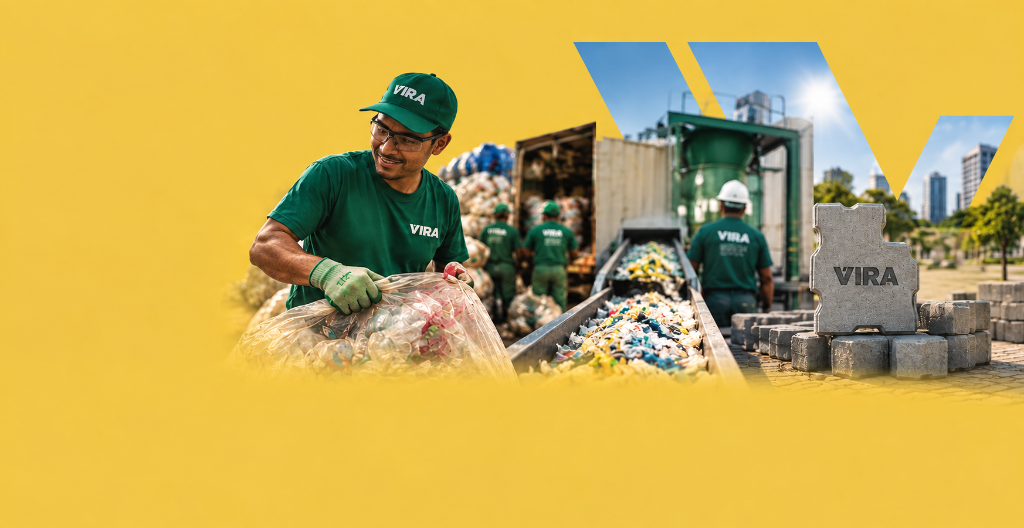
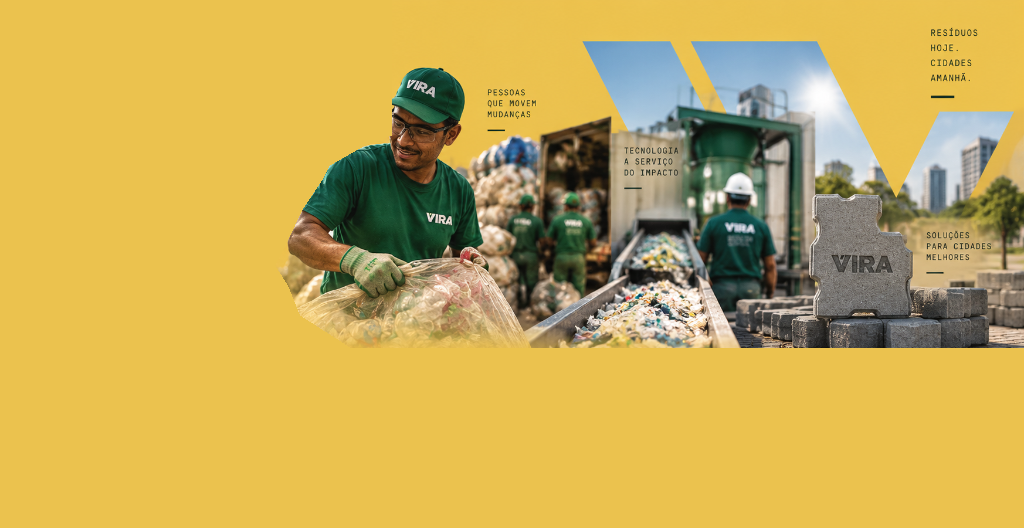
fix(processo): restaurar fidelidade integral do layout com asset limpo de alta resolução, grid de 5 etapas refinado e proporções originais

Changed region(s): [[0.2188, 0.0606, 1.0, 0.7576], [0.9062, 0.0303, 0.9375, 0.1515]]

diff --git a/home-hardening.css b/home-hardening.css
@@ -670,16 +670,22 @@
   position: relative !important;
   background-color: #ECC24E !important;
   background-image: url('assets/processo-operacao-hero.png') !important;
-  background-size: auto clamp(420px, 44vw, 530px) !important;
+  background-size: auto clamp(460px, 48vw, 535px) !important;
   background-position: right top !important;
   background-repeat: no-repeat !important;
-  min-height: clamp(620px, 60vw, 840px);
-  padding: clamp(42px, 4.4vw, 64px) var(--pad, 40px) clamp(28px, 3vw, 44px) var(--pad, 40px) !important;
+  min-height: clamp(520px, 51.6vw, 720px);
+  padding: clamp(28px, 3.2vw, 44px) var(--pad, 40px) clamp(14px, 1.8vw, 24px) var(--pad, 40px) !important;
   box-sizing: border-box;
   overflow: hidden;
   color: #161a17;
   border-top: 1px solid rgba(22, 26, 23, 0.12);
   border-bottom: 1px solid rgba(22, 26, 23, 0.12);
+}
+
+@media (min-width: 1400px) {
+  .process-section#processo {
+    background-position: calc(50% + 700px - 1024px) top !important;
+  }
 }
 
 .process-shell {
@@ -696,13 +702,13 @@
   display: flex;
   justify-content: space-between;
   align-items: flex-start;
-  margin-bottom: clamp(120px, 13vw, 180px);
+  margin-bottom: clamp(20px, 2.6vw, 36px);
   position: relative;
   z-index: 4;
 }
 
 .process-hero-copy {
-  max-width: clamp(240px, 22vw, 300px);
+  max-width: clamp(260px, 25vw, 320px);
 }
 
 .process-eyebrow {
@@ -812,6 +818,8 @@
   color: #141815 !important;
   margin: 0 !important;
   text-transform: uppercase !important;
+  opacity: 0 !important;
+  pointer-events: none !important;
 }
 
 .process-manifesto-dash {
@@ -824,7 +832,7 @@
 .process-steps-grid {
   display: grid !important;
   grid-template-columns: repeat(5, 1fr) !important;
-  gap: 0 !important;
+  gap: clamp(10px, 1.4vw, 22px) !important;
   margin: 0 !important;
   padding: 0 !important;
   position: relative;
@@ -833,45 +841,29 @@
 
 .process-step-col {
   position: relative;
-  padding: 0 clamp(10px, 1.6vw, 24px) !important;
   display: flex;
   flex-direction: column;
   align-items: flex-start;
 }
 
-.process-step-col:first-child {
-  padding-left: 0 !important;
-}
-
-.process-step-col:last-child {
-  padding-right: 0 !important;
-}
-
-.process-step-col:not(:first-child)::before {
-  content: '';
-  position: absolute;
-  left: 0;
-  top: 32px;
-  bottom: 0;
-  width: 1px;
-  background: rgba(22, 26, 23, 0.22);
+.process-step-header {
+  display: flex;
+  align-items: center;
+  justify-content: flex-start;
+  gap: clamp(8px, 1vw, 14px);
+  margin-bottom: clamp(10px, 1.1vw, 14px);
+  width: 100%;
 }
 
 .process-step-num {
   font-family: var(--font-mono, 'IBM Plex Mono', monospace) !important;
-  font-size: 13px !important;
+  font-size: 12.5px !important;
   font-weight: 600 !important;
   letter-spacing: 0.04em !important;
   color: #141815 !important;
-  margin-bottom: 14px !important;
-}
-
-.process-step-icon-row {
-  width: 100%;
-  display: flex;
-  justify-content: space-between;
-  align-items: center;
-  margin-bottom: 14px;
+  margin: 0 !important;
+  flex-shrink: 0;
+  width: 18px;
 }
 
 .process-step-icon {
@@ -879,7 +871,8 @@
   display: flex;
   align-items: center;
   justify-content: flex-start;
-  height: 32px;
+  height: 30px;
+  flex-shrink: 0;
 }
 
 .process-step-icon svg {
@@ -890,24 +883,36 @@
   display: flex;
   align-items: center;
   color: rgba(20, 24, 21, 0.55) !important;
-  margin-right: 6px;
+  margin-left: auto;
+  padding-right: 4px;
+}
+
+.process-step-body {
+  position: relative;
+  border-left: 1px solid rgba(22, 26, 23, 0.26);
+  padding-left: clamp(10px, 1.1vw, 16px);
+  margin-left: 8px;
+  display: flex;
+  flex-direction: column;
+  align-items: flex-start;
 }
 
 .process-step-title {
   font-family: var(--font-main, 'Manrope', sans-serif) !important;
-  font-size: clamp(14px, 1.1vw, 15.5px) !important;
+  font-size: clamp(13px, 1.05vw, 15px) !important;
   font-weight: 800 !important;
   letter-spacing: 0.04em !important;
   text-transform: uppercase !important;
   color: #141815 !important;
-  margin: 0 0 8px 0 !important;
+  margin: 0 0 6px 0 !important;
+  line-height: 1.2 !important;
 }
 
 .process-step-text {
   font-family: var(--font-main, 'Manrope', sans-serif) !important;
-  font-size: clamp(12.5px, 0.95vw, 13.5px) !important;
+  font-size: clamp(11.5px, 0.86vw, 12.5px) !important;
   font-weight: 400 !important;
-  line-height: 1.5 !important;
+  line-height: 1.45 !important;
   color: rgba(20, 24, 21, 0.85) !important;
   margin: 0 !important;
 }
@@ -916,8 +921,8 @@
   display: flex;
   justify-content: space-between;
   align-items: center;
-  margin-top: clamp(28px, 3.4vw, 48px);
-  padding-top: 16px;
+  margin-top: clamp(14px, 1.8vw, 24px);
+  padding-top: 8px;
   position: relative;
   z-index: 4;
 }
@@ -936,22 +941,29 @@
 }
 
 .process-foot-logo {
-  height: clamp(20px, 1.8vw, 26px);
+  height: clamp(18px, 1.6vw, 24px);
   width: auto;
   opacity: 0.95;
   display: block;
 }
 
-@media (max-width: 1024px) {
+.process-step-icon svg {
+  stroke: #141815 !important;
+  stroke-width: 1.4 !important;
+}
+
+.process-step-arrow svg {
+  stroke: rgba(20, 24, 21, 0.55) !important;
+  stroke-width: 1.2 !important;
+}
+
+@media (max-width: 860px) {
   .process-steps-grid {
     grid-template-columns: repeat(3, 1fr) !important;
-    gap: 28px 20px !important;
+    gap: 24px 18px !important;
   }
-  .process-step-col {
-    padding: 0 !important;
-  }
-  .process-step-col::before {
-    display: none !important;
+  .process-step-body {
+    margin-left: 0;
   }
 }
 
@@ -964,10 +976,11 @@
   .process-top-row {
     flex-direction: column;
     gap: 28px;
+    margin-bottom: 32px !important;
   }
   .process-steps-grid {
     grid-template-columns: 1fr !important;
-    gap: 24px !important;
+    gap: 20px !important;
   }
   .process-step-arrow {
     display: none !important;

diff --git a/index.html b/index.html
@@ -136,8 +136,8 @@
         <div class="process-steps-grid">
           <!-- Step 01: Coleta -->
           <div class="process-step-col">
-            <span class="process-step-num">01</span>
-            <div class="process-step-icon-row">
+            <div class="process-step-header">
+              <span class="process-step-num">01</span>
               <div class="process-step-icon" aria-hidden="true">
                 <svg viewBox="0 0 24 24" width="28" height="28" fill="none" stroke="currentColor" stroke-width="1.8" stroke-linecap="round" stroke-linejoin="round">
                   <circle cx="12" cy="7" r="3"/>
@@ -155,14 +155,16 @@
                 </svg>
               </span>
             </div>
-            <h3 class="process-step-title">COLETA</h3>
-            <p class="process-step-text">Trabalhamos com cooperativas e catadores, garantindo renda e dignidade.</p>
+            <div class="process-step-body">
+              <h3 class="process-step-title">COLETA</h3>
+              <p class="process-step-text">Trabalhamos com cooperativas e catadores, garantindo renda e dignidade.</p>
+            </div>
           </div>
 
           <!-- Step 02: Triagem -->
           <div class="process-step-col">
-            <span class="process-step-num">02</span>
-            <div class="process-step-icon-row">
+            <div class="process-step-header">
+              <span class="process-step-num">02</span>
               <div class="process-step-icon" aria-hidden="true">
                 <svg viewBox="0 0 24 24" width="28" height="28" fill="none" stroke="currentColor" stroke-width="1.8" stroke-linecap="round" stroke-linejoin="round">
                   <path d="M7 19H4.8a1.8 1.8 0 0 1-1.57-.88 1.78 1.78 0 0 1 0-1.78L7.2 9.5"/>
@@ -180,14 +182,16 @@
                 </svg>
               </span>
             </div>
-            <h3 class="process-step-title">TRIAGEM</h3>
-            <p class="process-step-text">Os materiais são separados e preparados para processamento.</p>
+            <div class="process-step-body">
+              <h3 class="process-step-title">TRIAGEM</h3>
+              <p class="process-step-text">Os materiais são separados e preparados para processamento.</p>
+            </div>
           </div>
 
           <!-- Step 03: Processamento -->
           <div class="process-step-col">
-            <span class="process-step-num">03</span>
-            <div class="process-step-icon-row">
+            <div class="process-step-header">
+              <span class="process-step-num">03</span>
               <div class="process-step-icon" aria-hidden="true">
                 <svg viewBox="0 0 24 24" width="28" height="28" fill="none" stroke="currentColor" stroke-width="1.8" stroke-linecap="round" stroke-linejoin="round">
                   <!-- Small Gear -->
@@ -205,14 +209,16 @@
                 </svg>
               </span>
             </div>
-            <h3 class="process-step-title">PROCESSAMENTO</h3>
-            <p class="process-step-text">Transformamos plásticos e escória em novos materiais de alta performance.</p>
+            <div class="process-step-body">
+              <h3 class="process-step-title">PROCESSAMENTO</h3>
+              <p class="process-step-text">Transformamos plásticos e escória em novos materiais de alta performance.</p>
+            </div>
           </div>
 
           <!-- Step 04: Produtos -->
           <div class="process-step-col">
-            <span class="process-step-num">04</span>
-            <div class="process-step-icon-row">
+            <div class="process-step-header">
+              <span class="process-step-num">04</span>
               <div class="process-step-icon" aria-hidden="true">
                 <svg viewBox="0 0 24 24" width="28" height="28" fill="none" stroke="currentColor" stroke-width="1.8" stroke-linecap="round" stroke-linejoin="round">
                   <!-- Top Paver -->
@@ -236,14 +242,16 @@
                 </svg>
               </span>
             </div>
-            <h3 class="process-step-title">PRODUTOS</h3>
-            <p class="process-step-text">Pavers, blocos e guias com qualidade, durabilidade e baixo impacto ambiental.</p>
+            <div class="process-step-body">
+              <h3 class="process-step-title">PRODUTOS</h3>
+              <p class="process-step-text">Pavers, blocos e guias com qualidade, durabilidade e baixo impacto ambiental.</p>
+            </div>
           </div>
 
           <!-- Step 05: Cidades Mais Justas -->
           <div class="process-step-col">
-            <span class="process-step-num">05</span>
-            <div class="process-step-icon-row">
+            <div class="process-step-header">
+              <span class="process-step-num">05</span>
               <div class="process-step-icon" aria-hidden="true">
                 <svg viewBox="0 0 24 24" width="28" height="28" fill="none" stroke="currentColor" stroke-width="1.8" stroke-linecap="round" stroke-linejoin="round">
                   <!-- Ground line -->
@@ -261,8 +269,10 @@
                 </svg>
               </div>
             </div>
-            <h3 class="process-step-title">CIDADES MAIS JUSTAS</h3>
-            <p class="process-step-text">Infraestrutura sustentável para um futuro melhor para todos.</p>
+            <div class="process-step-body">
+              <h3 class="process-step-title">CIDADES MAIS JUSTAS</h3>
+              <p class="process-step-text">Infraestrutura sustentável para um futuro melhor para todos.</p>
+            </div>
           </div>
         </div>
 
